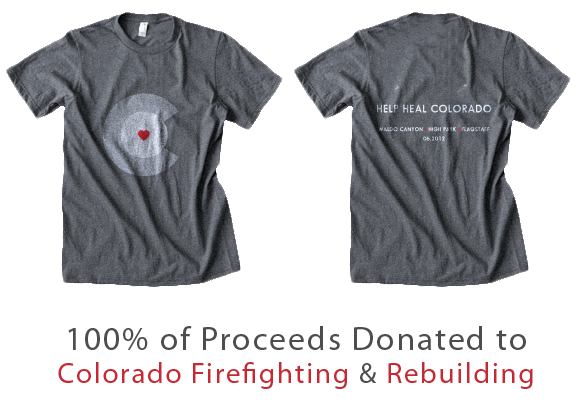
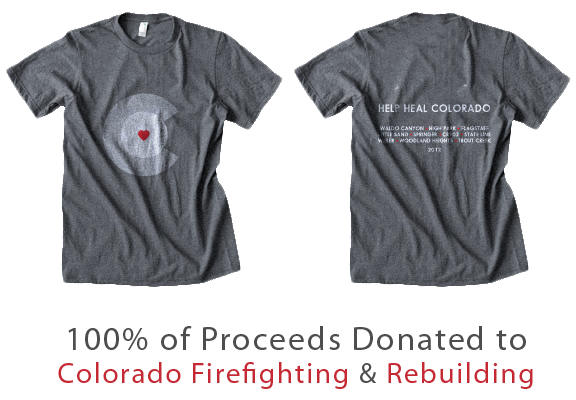
Shirt image update

Changed region(s): [[0.6562, 0.24, 0.875, 0.39]]

diff --git a/index.html b/index.html
@@ -66,8 +66,9 @@
 	<h1>Shipping & Handling</h1>
 	<p>All shirts will be shipped via USPS Mail.  Shirts will only be shipped within US/Canada/Mexico.</p>
 	<h1>Processing</h1>
-	<p>There will be a two-week period (approx) before shirts are shipped to account for printing and processing.</p>
+	<p>There will be a one-week period (approx) before shirts are shipped to account for printing and processing.</p>
 	<h1>Shirts</h1>
+	<p>Back of shirt reads: Help Heal Colorado  |  Waldon Canyon, High Park, Flagstaff, Little Sands, Springer, CR102, State Line, Weber, Woodland Heights, Trout Creek | 2012</p>
 	<p>The shirts are cotton ringspun fashion tees with tearaway labels and soft 2-color prints. Note that the tees may have slight variations in color. <br /><a href="http://www.anvilknitwear.com/content/view/popup/342" target="_blank">Size chart</a></p>
 	<p>
 	<h1>Questions?</h1>
